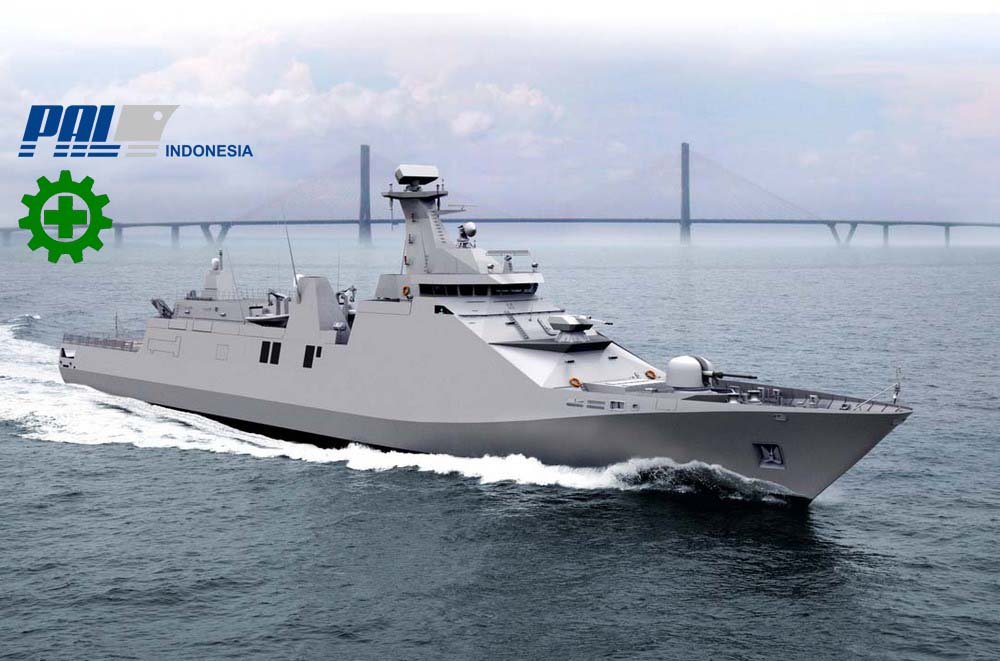
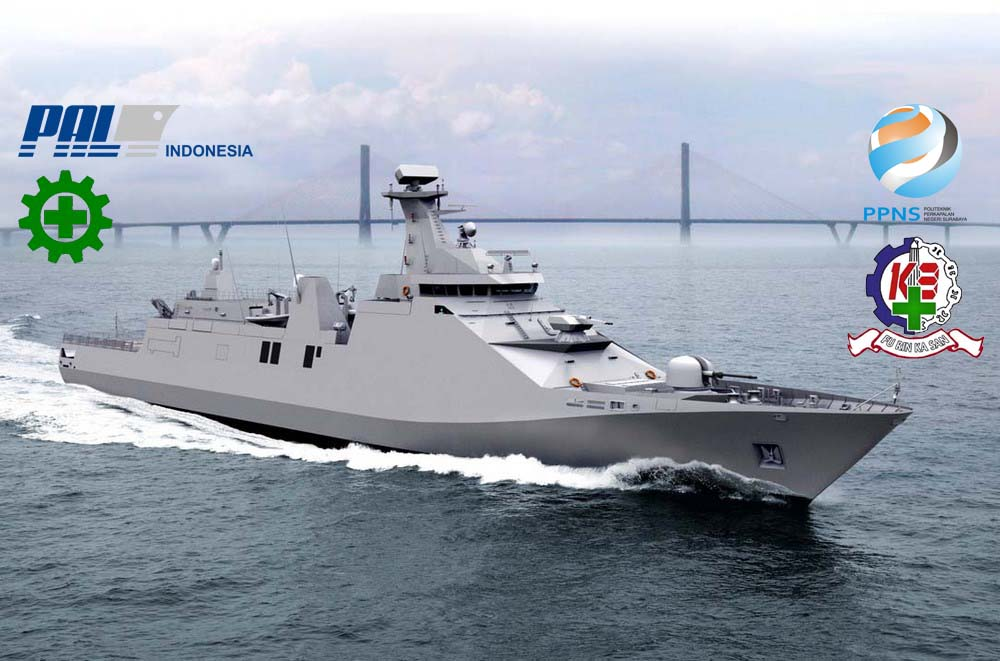
background login

Changed region(s): [[0.837, 0.1513, 0.992, 0.5446]]

diff --git a/application/views/login.php b/application/views/login.php
@@ -30,7 +30,7 @@
 						</div>
 					</form>
 					
-					<div class="footer-login">&copy; copyright PPNS | PT. PAL Indonesia</div>
+					<div class="footer-login">&copy; copyright Politeknik Perkapalan Negeri Surabaya | PT. PAL Indonesia</div>
 				</div>
 			</div>
 		</div>
